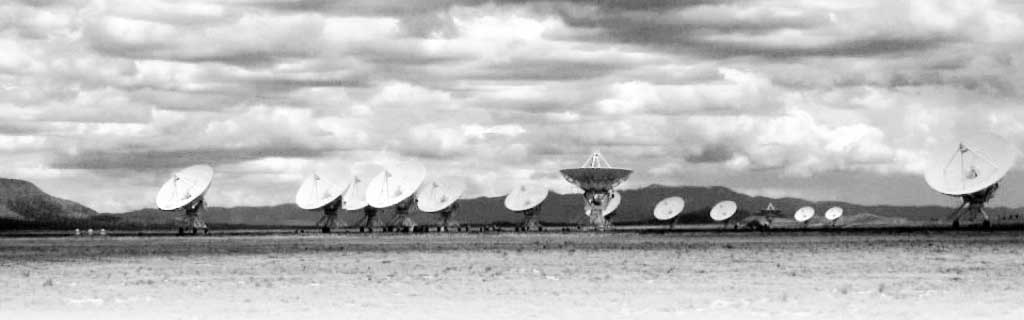
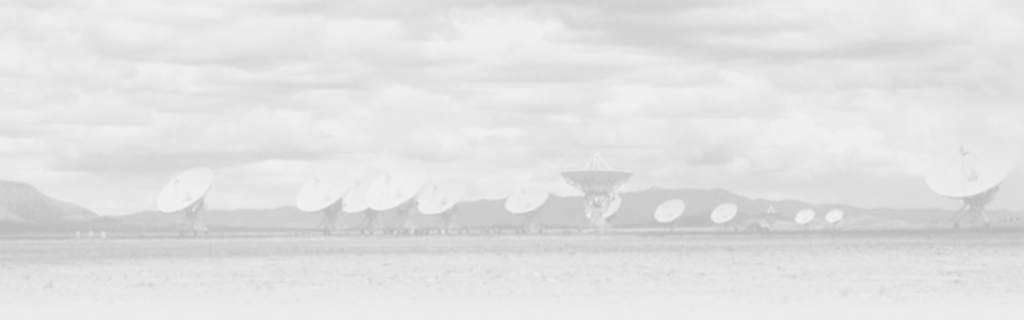
Use hero img as CSS background to avoid z-order problems. Full-width img, pre-composed to very light opacity.

diff --git a/index.html b/index.html
@@ -17,7 +17,7 @@
 			header > address > a { display: block; }
 			
 			footer { font-size: 1.8vw; font-family: "Avenir Next Condensed"; color: #555; }
-			body { background-color: #eee; }
+body { background: url(https://watersb.org/img/me/vla-pano-bw.jpg) #eee no-repeat fixed 0 0 / 100% auto; }
 		</style>
 		
 	</head>
@@ -25,9 +25,7 @@
 		<header>
 			<h1>watersb</h1>
 			<p>A Web Page of Boyd Waters</p>
-<img src="https://watersb.org/img/me/vla-pano-bw.jpg" alt="" width="100%"/>
 
-	
 			<address>
 			  <a href="https://twitter.com/watersb">@watersb</a>
 			  <a href="pubkey.gpg">GPG Public Key</a>
